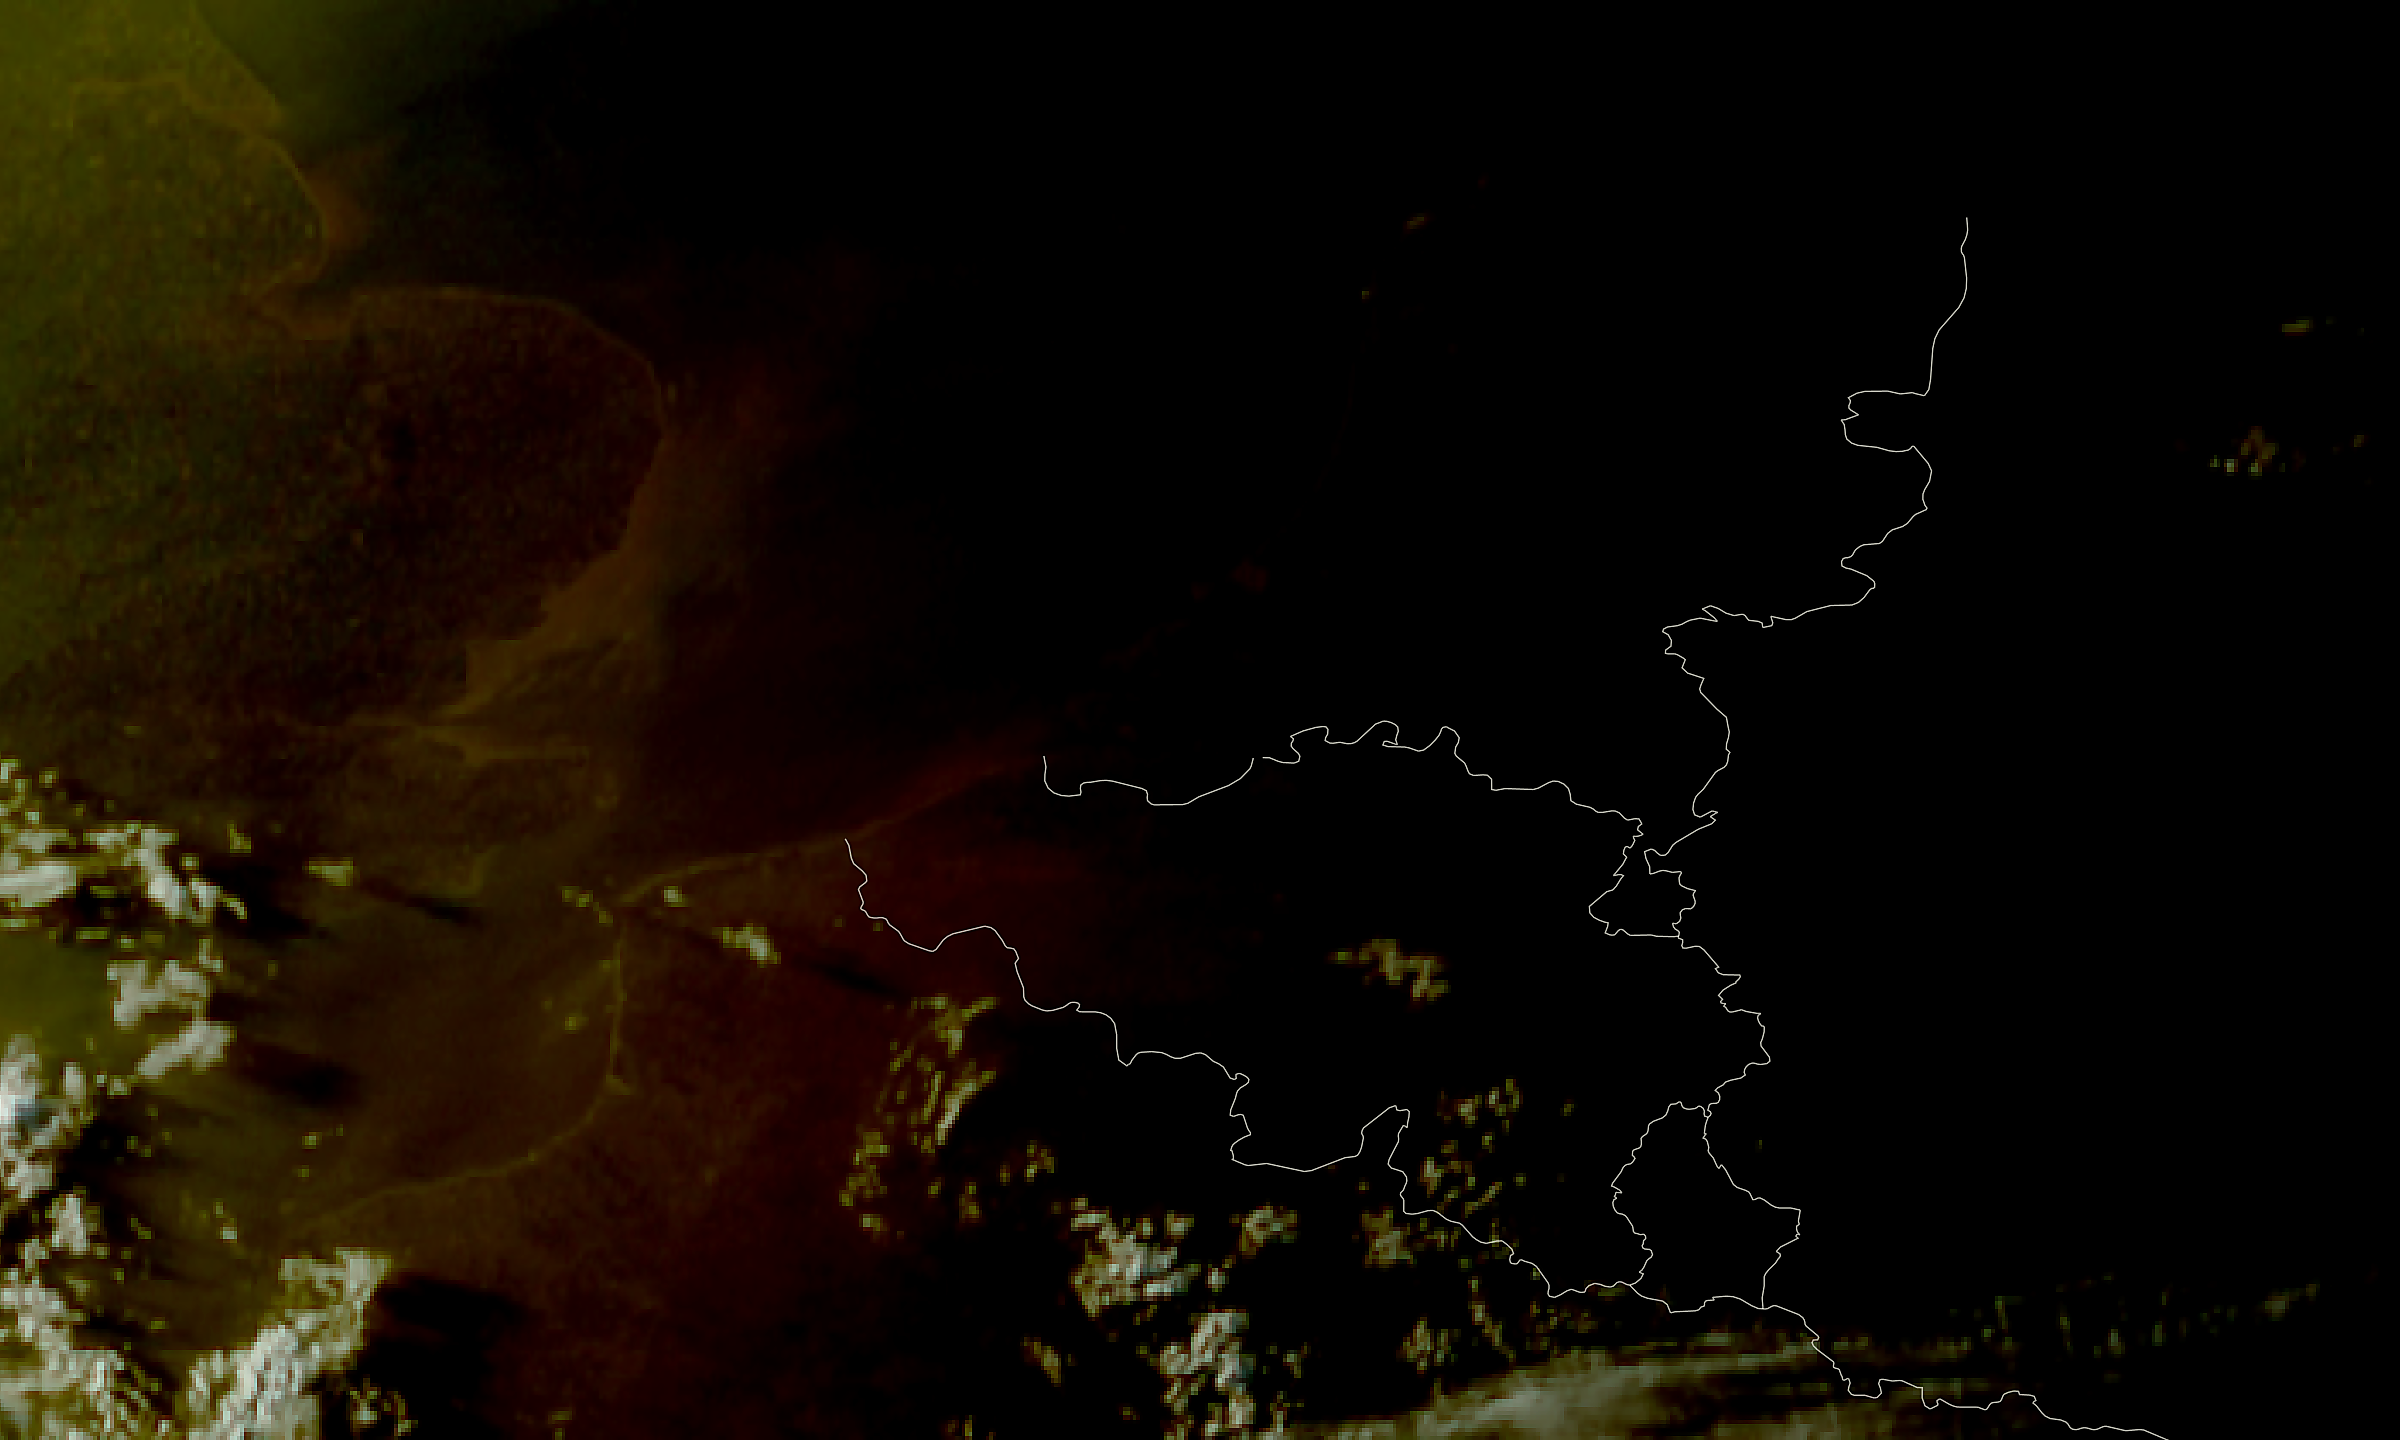
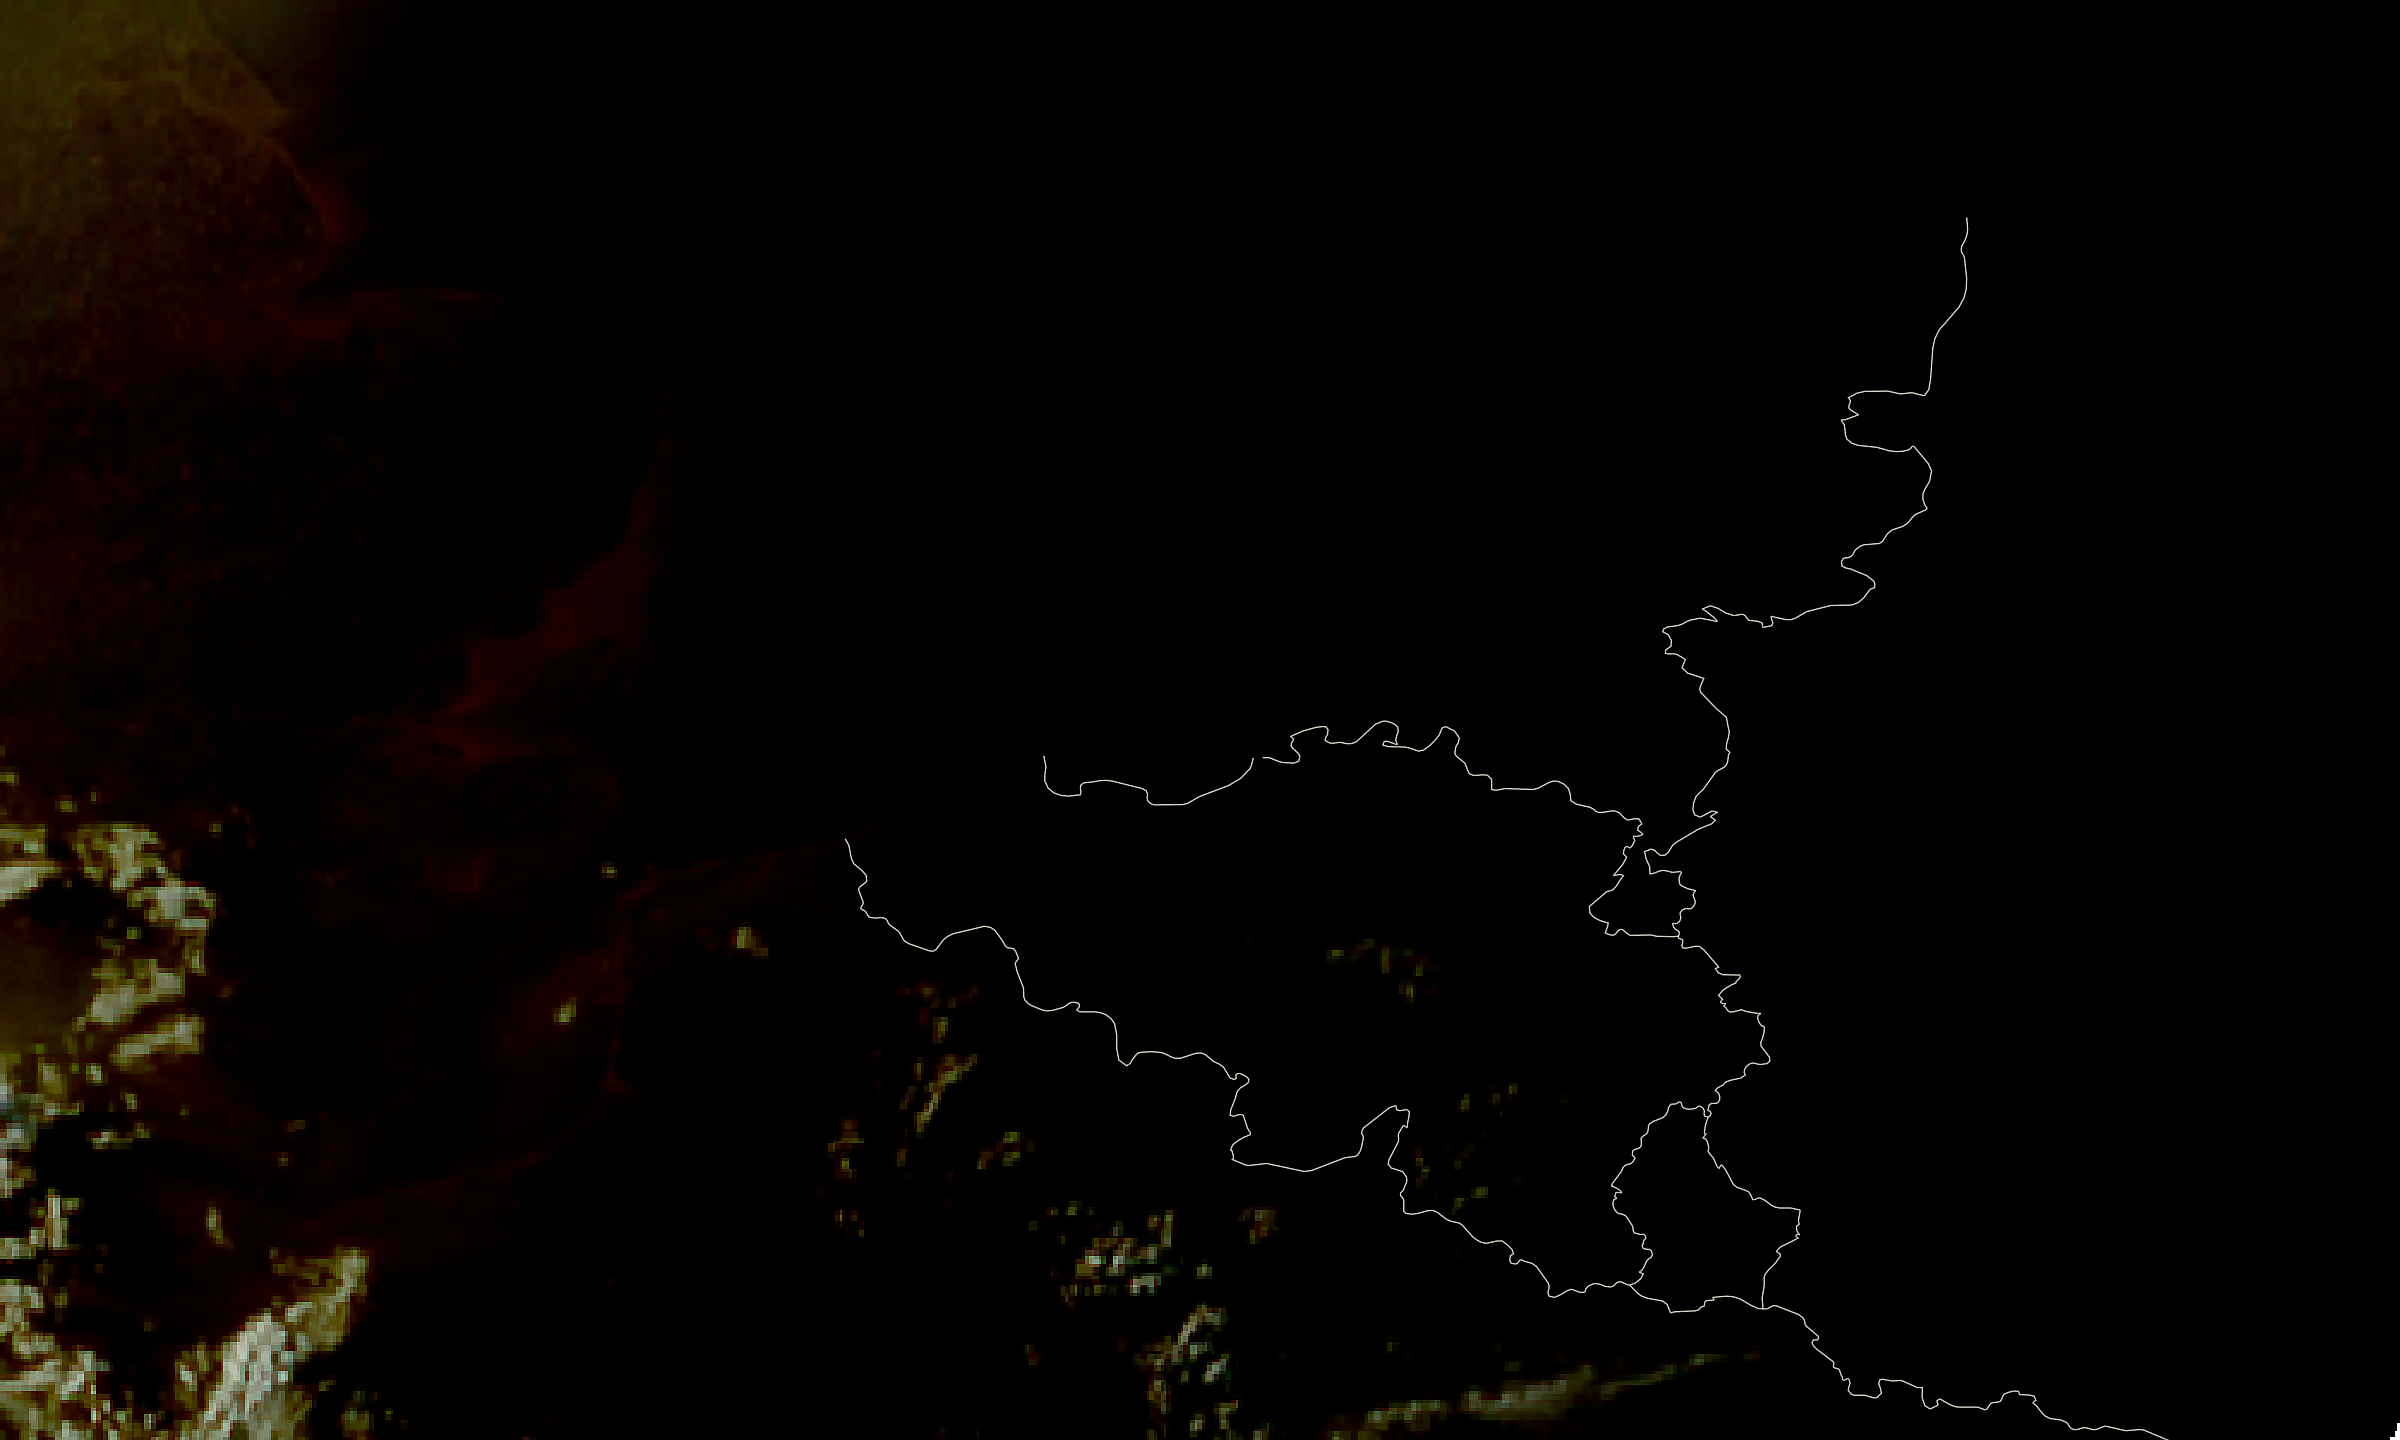
MTG Benelux satellietbeeld update 2026-04-28 21:00

diff --git a/mtg_benelux_meta.js b/mtg_benelux_meta.js
@@ -1,2 +1,2 @@
 const MTG_BENELUX_PRODUCT = "mtg_fd:rgb_truecolour";
-const MTG_BENELUX_TIJD = "2026-04-28T18:20:00Z";
+const MTG_BENELUX_TIJD = "2026-04-28T18:40:00Z";
